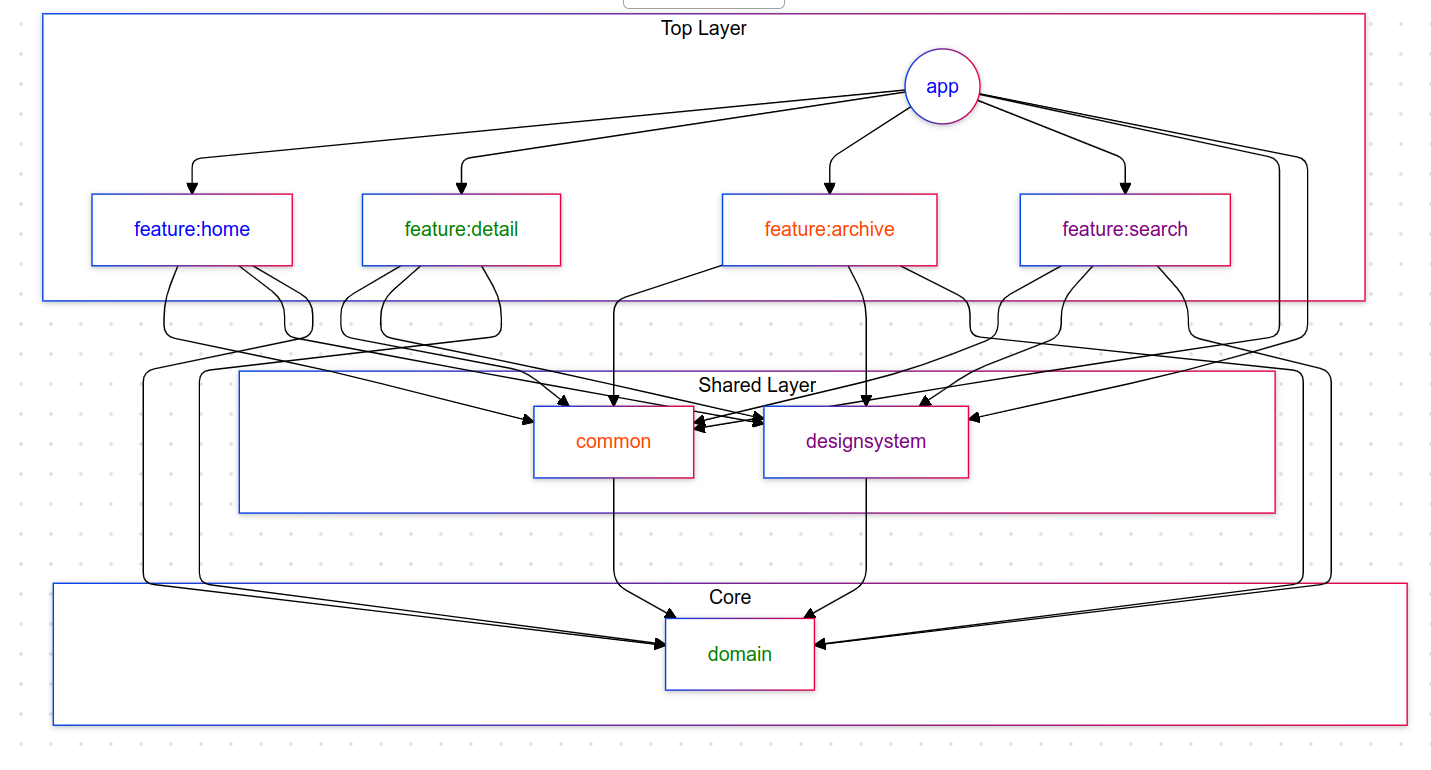
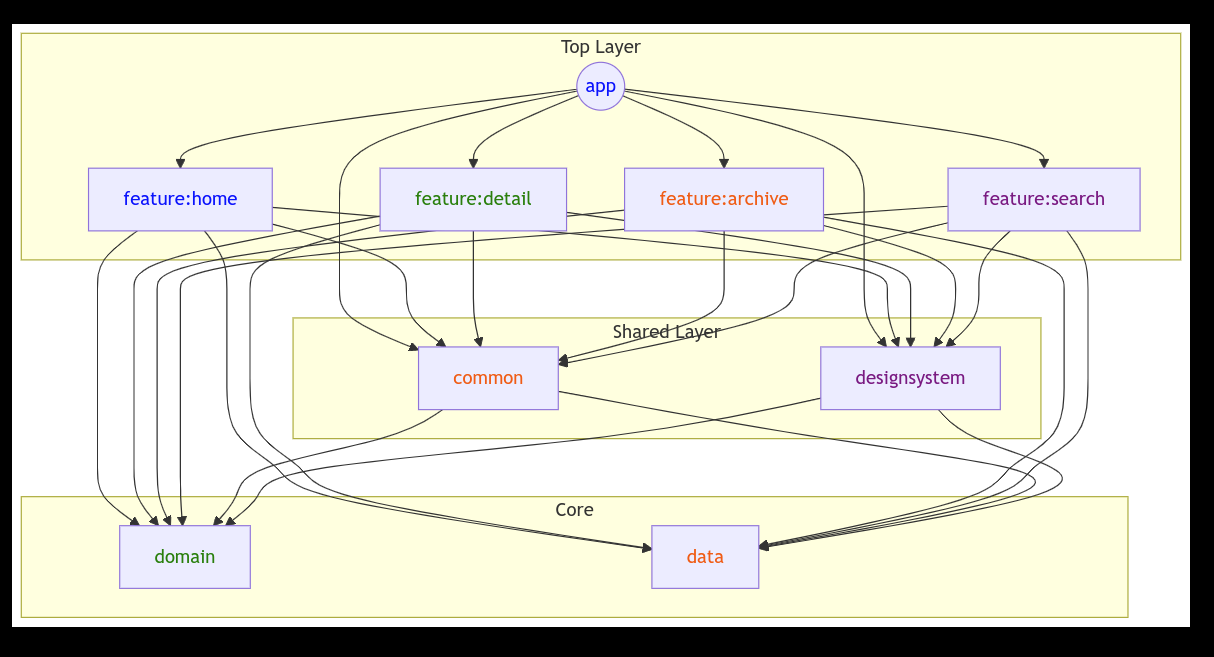
Added missing module in README.md

diff --git a/README.md b/README.md
@@ -20,7 +20,8 @@ This Android application is a comprehensive news aggregation app that fetches an
 - **app**: Main application module, orchestrates app-level dependencies and configurations
 - **common**: Shared utilities, extensions, and common components used across modules
 - **designsystem**: Centralized design resources, custom UI components, and theme definitions
-- **domain**: Core business logic, use cases, and domain models
+- **data**: Implements data sources and repositories
+- **domain**: Use cases and domain models
 - **feature:home**: Home screen implementation with top headlines list
 - **feature:detail**: Detailed article view and interactions
 - **feature:archive**: Offline news storage and archived articles management
